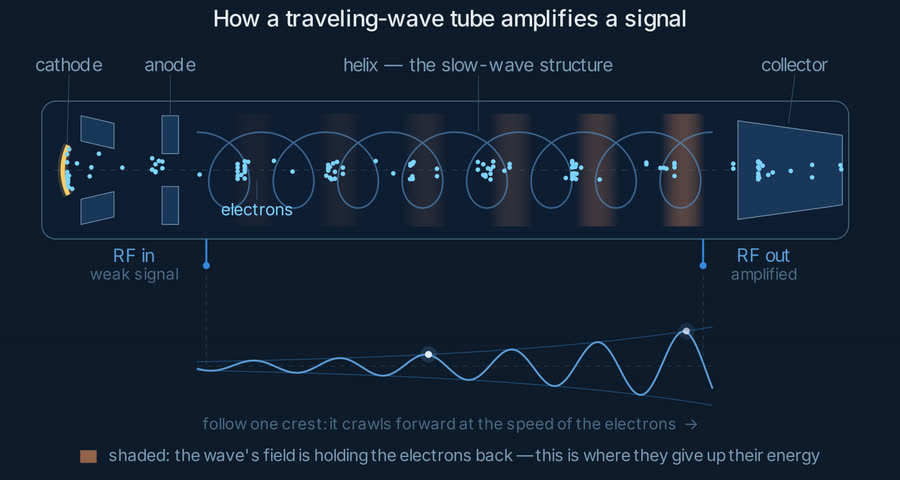
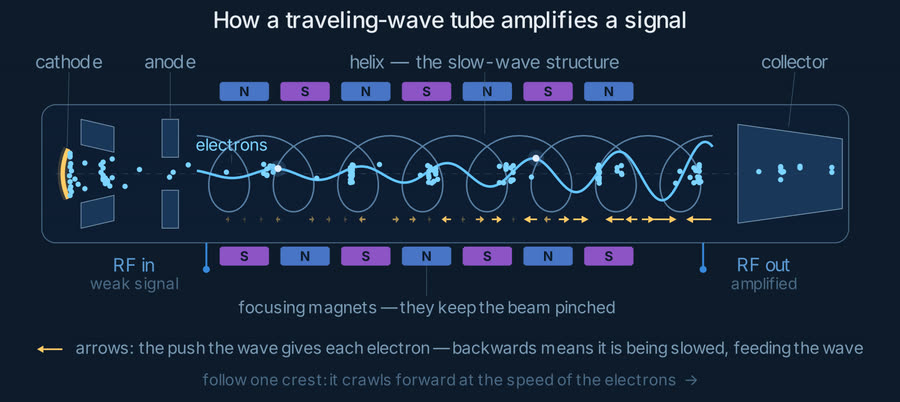
Draw the wave through the beam, and show the magnets
Two things were still missing from the figure: you could not see the wave
act on the electrons, and the focusing magnets were not in it at all.

- The RF wave is no longer a graph in a lane of its own. It rides on the
  beam axis, so its crests sweep across the electrons, and it grows along
  the tube where you can see it happen.
- A row of arrows under the beam gives the force the wave exerts on each
  electron (-eE, so backwards means it is being slowed). The bunches form
  exactly where those arrows converge, which is the mechanism itself.
- The periodic permanent magnets are drawn above and below the tube with
  their polarities, labelled.
- The shaded half-cycles are gone: the arrows carry that meaning without
  needing a colour key, which leaves the beam cyan, the wave blue and the
  force amber.

diff --git a/projets/thales.html b/projets/thales.html
@@ -159,14 +159,14 @@
       <figure class="fig">
         <picture>
           <source srcset="../assets/twt/twt-loop-still.jpg" media="(prefers-reduced-motion: reduce)">
-          <img src="../assets/twt/twt-loop.gif" width="900" height="480"
-               alt="Animated diagram of a traveling-wave tube: electrons leave the cathode, pass the anode, bunch up along the helix, and the RF signal entering on the left leaves amplified on the right.">
+          <img src="../assets/twt/twt-loop.gif" width="900" height="402"
+               alt="Animated diagram of a traveling-wave tube: the RF wave runs along the beam axis, arrows under the beam show the push it gives each electron, the electrons bunch where those arrows converge, and the wave leaves the tube far larger than it entered.">
         </picture>
         <figcaption>
           Drawn for this page with <a href="https://www.manim.community/" target="_blank" rel="noopener">Manim</a>
           (<a href="https://github.com/MartinErwan/MartinErwan.github.io/blob/main/assets/manim/twt.py" target="_blank" rel="noopener">source</a>).
-          The bunching is integrated from the equations of motion rather than drawn by hand, and the helix
-          is wound with a pitch that really does slow the wave by the factor it claims.
+          The wave is drawn where it acts — along the beam — and the arrows under it are the force it exerts
+          on each electron. The bunching is integrated from the equations of motion rather than drawn by hand.
           A longer walk-through — including why the helix is what slows the wave down — is available as a
           <a href="../assets/twt/twt-explainer.mp4">78-second clip</a>.
         </figcaption>

diff --git a/assets/manim/twt.py b/assets/manim/twt.py
@@ -198,7 +198,7 @@ class Beam:
         self.opac = ValueTracker(1.0)       # dim the beam while we talk about the wave
 
         self.dots = VGroup(*[
-            Dot(radius=0.036, color=ELECTRON, fill_opacity=0.95) for _ in range(n)])
+            Dot(radius=0.042, color=ELECTRON, fill_opacity=1.0) for _ in range(n)])
         self._place()
 
     # -- kinematics --------------------------------------------------------
@@ -768,42 +768,93 @@ class ElectronGunProblem(TWTScene):
 
 
 # --------------------------------------------------------------------------
-# The standalone looping figure — every part named, the wave visibly moving
+# The standalone looping figure used on the page
 # --------------------------------------------------------------------------
 class TWTLoop(TWTScene):
-    """A self-contained loop: what each part is called, and the signal
-    travelling from the RF input to the RF output while it grows.
+    """The wave drawn where it actually acts — through the beam itself.
 
-    The loop is built to close on itself exactly. One crest crosses the helix
-    in T_LOOP seconds, and the helix is exactly six wavelengths long, so after
-    T_LOOP the wave, the field and the bunches are all back where they started.
+    The RF wave rides on the axis, so its crests and troughs sweep across the
+    electrons; a row of arrows under the beam gives the push each electron is
+    getting at that instant, and the bunches form exactly where those arrows
+    converge. The loop closes on itself: one crest crosses the helix in
+    T_LOOP seconds and the helix is six wavelengths long.
     """
 
     T_LOOP = 4.8                                  # seconds, an exact loop
     LAM    = (X_H1 - X_H0) / 6                    # six wavelengths of helix
     VPH    = (X_H1 - X_H0) / T_LOOP               # crossed in one loop
+    AMP    = 0.52                                 # drawn amplitude at the output
+    Y_ARR  = AXIS_Y - 0.72                        # the row of force arrows,
+                                                  # clear of the wave's trough
 
+    def strength(self, x):
+        """Envelope of the wave: it grows exponentially down the tube."""
+        return np.exp(np.clip(x - X_H0, 0, None) / L_GAIN) / 9.0
+
+    def e_field(self, x, t):
+        return self.strength(x) * np.sin(self.beam.k * (x - self.VPH * t))
+
+    # ----------------------------------------------------------------------
     def construct(self):
         tube = build_tube()
-        tube.helix.set_stroke(opacity=0.55)       # let the beam read on top
+        tube.helix.set_stroke(color="#5c86ab", opacity=0.95, width=2.3)  # structure, not subject
         self.beam = Beam(v_phase=self.VPH, lam=self.LAM)
         self.beam.coupling.set_value(1.0)
-        bands, base, _lane_lbl, wave, env_up, env_dn = self.make_wave_layer(
-            gain=1.0, only_decel=True)        # the lane label is replaced by the RF tags
 
+        magnets = self.magnet_row()
+        wave = always_redraw(self.wave_curve)
+        forces = always_redraw(self.force_row)
         chrome = self.annotate()
         markers = self.crest_markers()
 
-        # let the bunches settle first — whole loops, so the phase is unchanged
         dt = 1 / config.frame_rate
-        for _ in range(int(round(3 * self.T_LOOP / dt))):
+        for _ in range(int(round(3 * self.T_LOOP / dt))):   # let the bunches settle
             self.beam.step(dt)
 
-        bands.set_z_index(-1)
-        self.add(bands, tube, base, env_up, env_dn, wave, self.beam.dots, chrome, markers)
+        self.add(tube, magnets, wave, forces, self.beam.dots, chrome, markers)
         self.beam.dots.add_updater(lambda m, dt: self.beam.step(dt))
         self.wait(self.T_LOOP)
 
+    # -- the wave, drawn straight through the beam -------------------------
+    def wave_curve(self):
+        t = self.beam.t
+        return FunctionGraph(lambda x: AXIS_Y + self.AMP * self.e_field(x, t),
+                             x_range=[X_H0, X_H1, 0.015],
+                             color="#63c6ff", stroke_width=4.0)
+
+    # -- what the wave is doing to each electron ---------------------------
+    def force_row(self):
+        t, out = self.beam.t, VGroup()
+        for x in np.linspace(X_H0 + 0.22, X_H1 - 0.22, 30):
+            f = -self.e_field(x, t)              # force on an electron is -eE
+            L = 0.46 * f
+            if abs(L) < 0.035:
+                continue
+            s = np.sign(L)
+            head = min(0.11, abs(L) * 0.5)
+            op = float(np.clip(abs(f) * 3.0, 0.15, 1.0))
+            out.add(Line([x - L / 2, self.Y_ARR, 0], [x + L / 2 - s * head, self.Y_ARR, 0],
+                         stroke_color=WARN, stroke_width=2.6, stroke_opacity=op),
+                    Polygon([x + L / 2, self.Y_ARR, 0],
+                            [x + L / 2 - s * head, self.Y_ARR + 0.058, 0],
+                            [x + L / 2 - s * head, self.Y_ARR - 0.058, 0],
+                            stroke_width=0, fill_color=WARN, fill_opacity=op))
+        return out
+
+    # -- the magnets that keep the beam pinched ----------------------------
+    def magnet_row(self):
+        g = VGroup()
+        y = R_TUBE + 0.38
+        for i, x in enumerate(np.arange(X_H0 + 0.75, X_H1 - 0.70, 0.96)):
+            for sgn in (1, -1):
+                north = (i % 2 == 0) == (sgn > 0)
+                col = "#4f7fd6" if north else "#9a5ad6"
+                block = RoundedRectangle(width=0.78, height=0.30, corner_radius=0.05,
+                                         stroke_width=0, fill_color=col, fill_opacity=0.9)
+                block.move_to([x, AXIS_Y + sgn * y, 0])
+                g.add(block, T("N" if north else "S", 15, "#0d1b2a", weight=BOLD)
+                      .move_to(block.get_center()))
+        return g
     # -- naming every part -------------------------------------------------
     def annotate(self):
         def tag(txt, x, y, tip, size=21, color=MUTED):
@@ -811,54 +862,45 @@ class TWTLoop(TWTScene):
             return VGroup(lbl, leader(lbl, tip, side=UP if y > AXIS_Y else DOWN))
 
         title = T("How a traveling-wave tube amplifies a signal", 26, TXT,
-                  weight=MEDIUM).move_to([0, 3.52, 0])
+                  weight=MEDIUM).move_to([0, 3.55, 0])
 
         above = VGroup(
-            tag("cathode", -6.02, 2.82, [X_CATH + 0.20, AXIS_Y + 0.42, 0]),
-            tag("anode", -4.42, 2.82, [X_ANODE + 0.13, AXIS_Y + 0.88, 0]),
-            tag("helix — the slow-wave structure", 0.45, 2.82, [0.45, AXIS_Y + 0.62, 0]),
-            tag("collector", 5.45, 2.82, [5.35, AXIS_Y + 0.74, 0]),
+            tag("cathode", -6.02, 2.92, [X_CATH + 0.20, AXIS_Y + 0.42, 0]),
+            tag("anode", -4.42, 2.92, [X_ANODE + 0.13, AXIS_Y + 0.88, 0]),
+            tag("helix — the slow-wave structure", 0.55, 2.92, [0.55, AXIS_Y + 0.62, 0]),
+            tag("collector", 5.45, 2.92, [5.35, AXIS_Y + 0.74, 0]),
         )
 
-        electrons = T("electrons", 19, ELECTRON).move_to([-3.05, AXIS_Y - 0.62, 0])
-        electrons = VGroup(electrons,
-                           leader(electrons, [-3.05, AXIS_Y - 0.16, 0], side=DOWN))
+        electrons = tag("electrons", -3.45, AXIS_Y + 0.46,
+                        [-3.45, AXIS_Y + 0.17, 0], size=19, color=ELECTRON)
+        magnets = tag("focusing magnets — they keep the beam pinched", -0.37, -0.98,
+                      [-0.37, -0.31, 0], size=19)
 
-        y_port = AXIS_Y - (R_TUBE + 0.17) - 0.42
         rf_in = VGroup(T("RF in", 21, ACCENT_LT), T("weak signal", 18, FAINT)
                        ).arrange(DOWN, buff=0.09)
-        rf_in.move_to([0, y_port, 0]).align_to([X_H0 - 0.30, 0, 0], RIGHT)
+        rf_in.move_to([0, -0.45, 0]).align_to([X_H0 - 0.30, 0, 0], RIGHT)
         rf_out = VGroup(T("RF out", 21, ACCENT_LT), T("amplified", 18, FAINT)
                         ).arrange(DOWN, buff=0.09)
-        rf_out.move_to([0, y_port, 0]).align_to([X_H1 + 0.30, 0, 0], LEFT)
+        rf_out.move_to([0, -0.45, 0]).align_to([X_H1 + 0.30, 0, 0], LEFT)
 
-        # the signal lane belongs to those two ports — say so
-        drop_in = DashedLine([X_H0 + 0.15, y_port - 0.16, 0], [X_H0 + 0.15, WAVE_Y + 0.02, 0],
-                             dash_length=0.07, stroke_color=FAINT, stroke_width=1,
-                             stroke_opacity=0.55)
-        drop_out = DashedLine([X_H1 - 0.15, y_port - 0.16, 0], [X_H1 - 0.15, WAVE_Y + 0.02, 0],
-                              dash_length=0.07, stroke_color=FAINT, stroke_width=1,
-                              stroke_opacity=0.55)
+        icon = VGroup(Line([0.20, 0, 0], [-0.10, 0, 0], stroke_color=WARN, stroke_width=2.6),
+                      Polygon([-0.20, 0, 0], [-0.10, 0.058, 0], [-0.10, -0.058, 0],
+                              stroke_width=0, fill_color=WARN, fill_opacity=1))
+        key = VGroup(icon, T("arrows: the push the wave gives each electron — backwards means "
+                             "it is being slowed, feeding the wave", 19, MUTED)
+                     ).arrange(RIGHT, buff=0.22).move_to([0, -1.62, 0])
 
-        swatch = Rectangle(width=0.26, height=0.20, stroke_width=0,
-                           fill_color=DECEL, fill_opacity=0.55)
-        key = VGroup(swatch, T("shaded: the wave's field is holding the electrons back — "
-                               "this is where they give up their energy", 19, MUTED)
-                     ).arrange(RIGHT, buff=0.20).move_to([0, -3.38, 0])
-
-        return VGroup(title, above, electrons, rf_in, rf_out, drop_in, drop_out, key)
+        return VGroup(title, above, electrons, magnets, rf_in, rf_out, key)
 
     # -- one crest, followed from end to end --------------------------------
     def crest_markers(self):
         beam, L = self.beam, X_H1 - X_H0
-        amp = 0.62
         delta = ((PI / 2) - beam.k * X_H0) / beam.k % self.LAM   # start on a crest
 
         def marker(phase):
             def build():
-                x = X_H0 + (delta + beam.v_phase * beam.t + phase * L) % L
-                e = np.exp(np.clip(x - X_H0, 0, None) / L_GAIN) / 9.0
-                y = WAVE_Y + amp * e * np.sin(beam.k * (x - beam.v_phase * beam.t))
+                x = X_H0 + (delta + self.VPH * beam.t + phase * L) % L
+                y = AXIS_Y + self.AMP * self.e_field(x, beam.t)
                 u = (x - X_H0) / L
                 fade = float(np.clip(min(u, 1 - u) / 0.07, 0, 1))
                 return VGroup(Dot([x, y, 0], radius=0.13, color=ACCENT_LT,
@@ -868,5 +910,5 @@ class TWTLoop(TWTScene):
             return always_redraw(build)
 
         follow = T("follow one crest: it crawls forward at the speed of the electrons  →",
-                   18, FAINT).move_to([0, -2.88, 0])
+                   18, FAINT).move_to([0, -2.12, 0])
         return VGroup(marker(0.0), marker(0.5), follow)

diff --git a/assets/manim/README.md b/assets/manim/README.md
@@ -8,7 +8,7 @@ Source of the explainer animations on
 |---|---|---|
 | `TravelingWaveTube` | The full explainer: the tube, the electron beam and its focusing, why the helix slows the wave down, bunching and exponential gain | `assets/twt/twt-explainer.mp4` |
 | `ElectronGunProblem` | How gun parameters bend the beam trajectory, what interception costs, and why a learned surrogate was needed | `assets/twt/gun-problem.mp4` + `gun-problem-still.jpg` |
-| `TWTLoop` | The labelled figure used on the page: every part named, the signal visibly travelling from the RF input to the RF output as it grows. Loops exactly — one crest crosses the helix in one loop, and the helix is six wavelengths long | `assets/twt/twt-loop.gif` |
+| `TWTLoop` | The labelled figure used on the page: the wave drawn along the beam itself, a row of arrows giving the force it exerts on each electron, the magnets, and every part named. Loops exactly — one crest crosses the helix in one loop, and the helix is six wavelengths long | `assets/twt/twt-loop.gif` |
 
 ## Rendering
 
@@ -28,7 +28,7 @@ ffmpeg -framerate 30 -start_number 0 -i TravelingWaveTube%04d.png \
 
 # gif — no dithering, the artwork is flat enough that it only adds noise
 ffmpeg -framerate 30 -start_number 0 -i TWTLoop%04d.png \
-       -vf "crop=1600:854:0:18,fps=15,scale=900:-1:flags=lanczos,split[a][b];\
+       -vf "crop=1600:714:0:12,fps=15,scale=900:-1:flags=lanczos,split[a][b];\
             [a]palettegen=max_colors=128:stats_mode=diff[p];[b][p]paletteuse=dither=none" \
        -loop 0 raw.gif
 gifsicle -O3 --lossy=25 raw.gif -o twt-loop.gif
